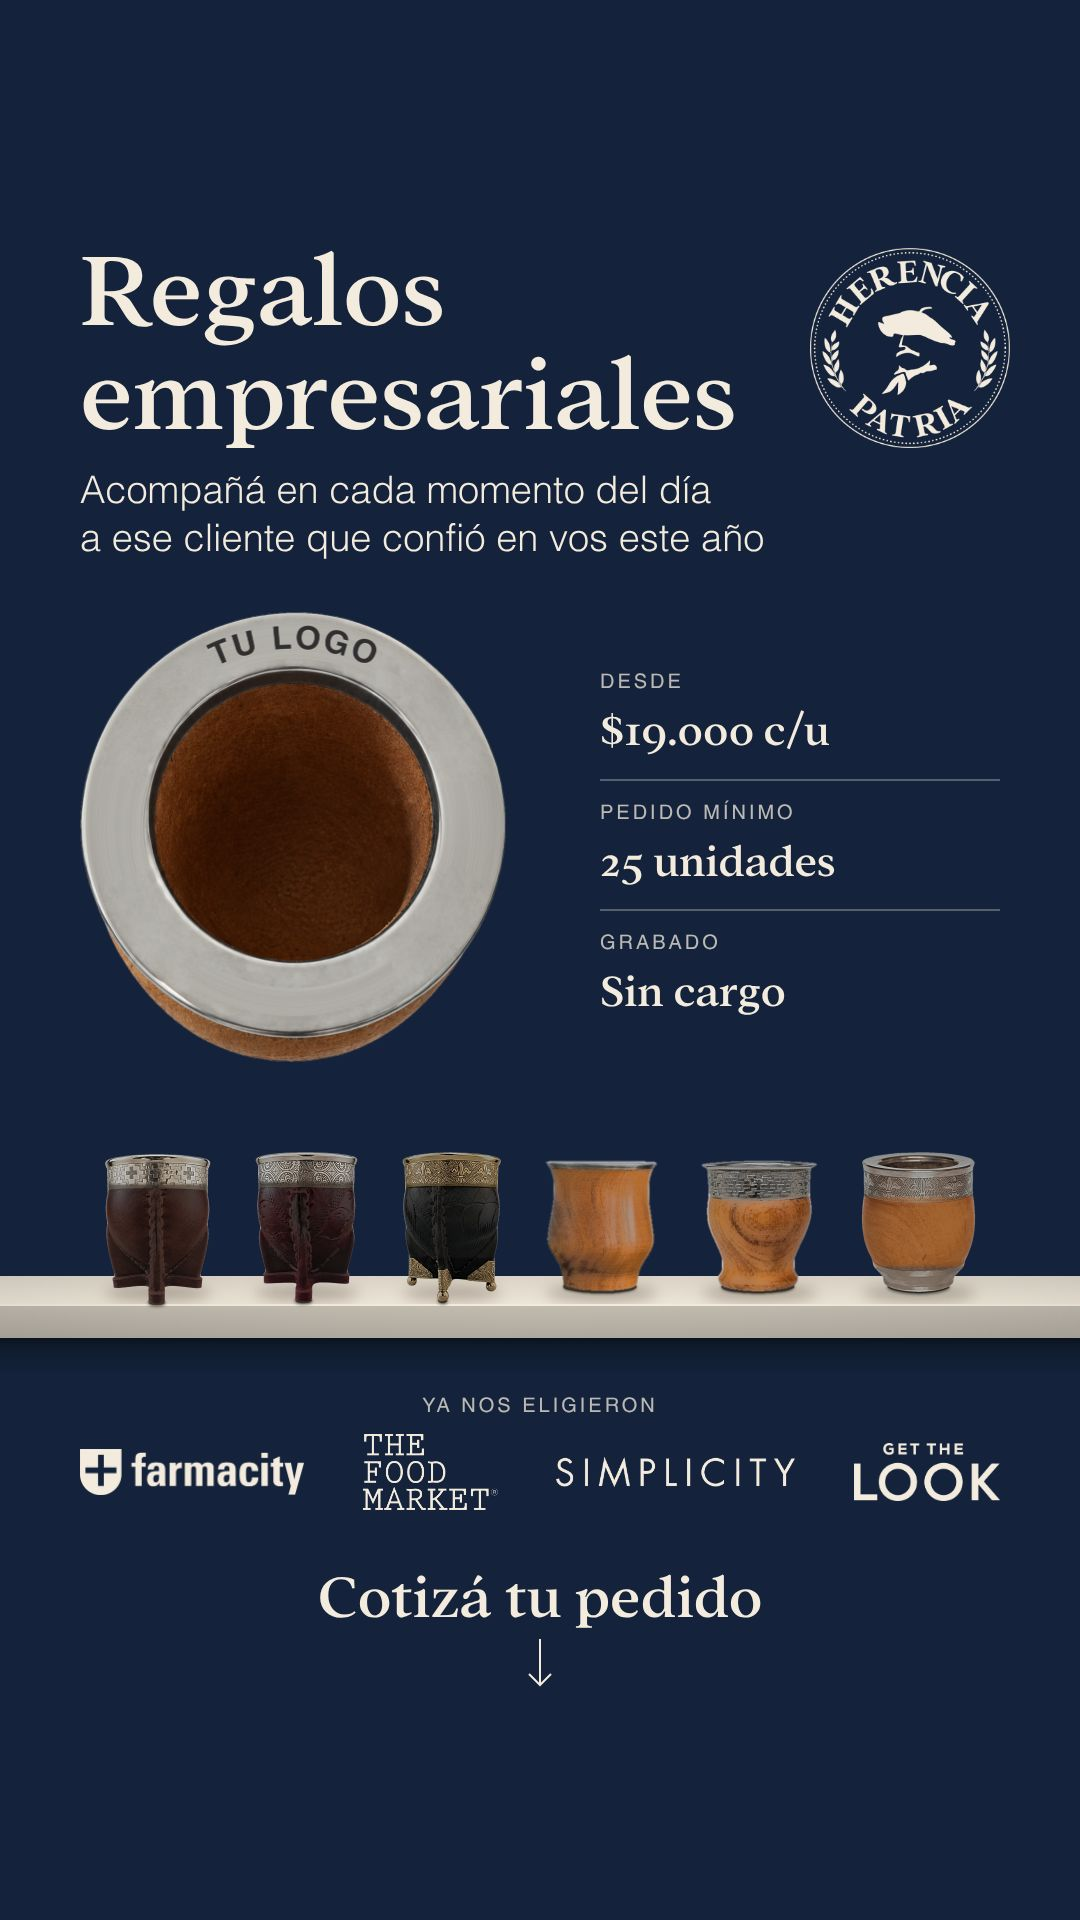
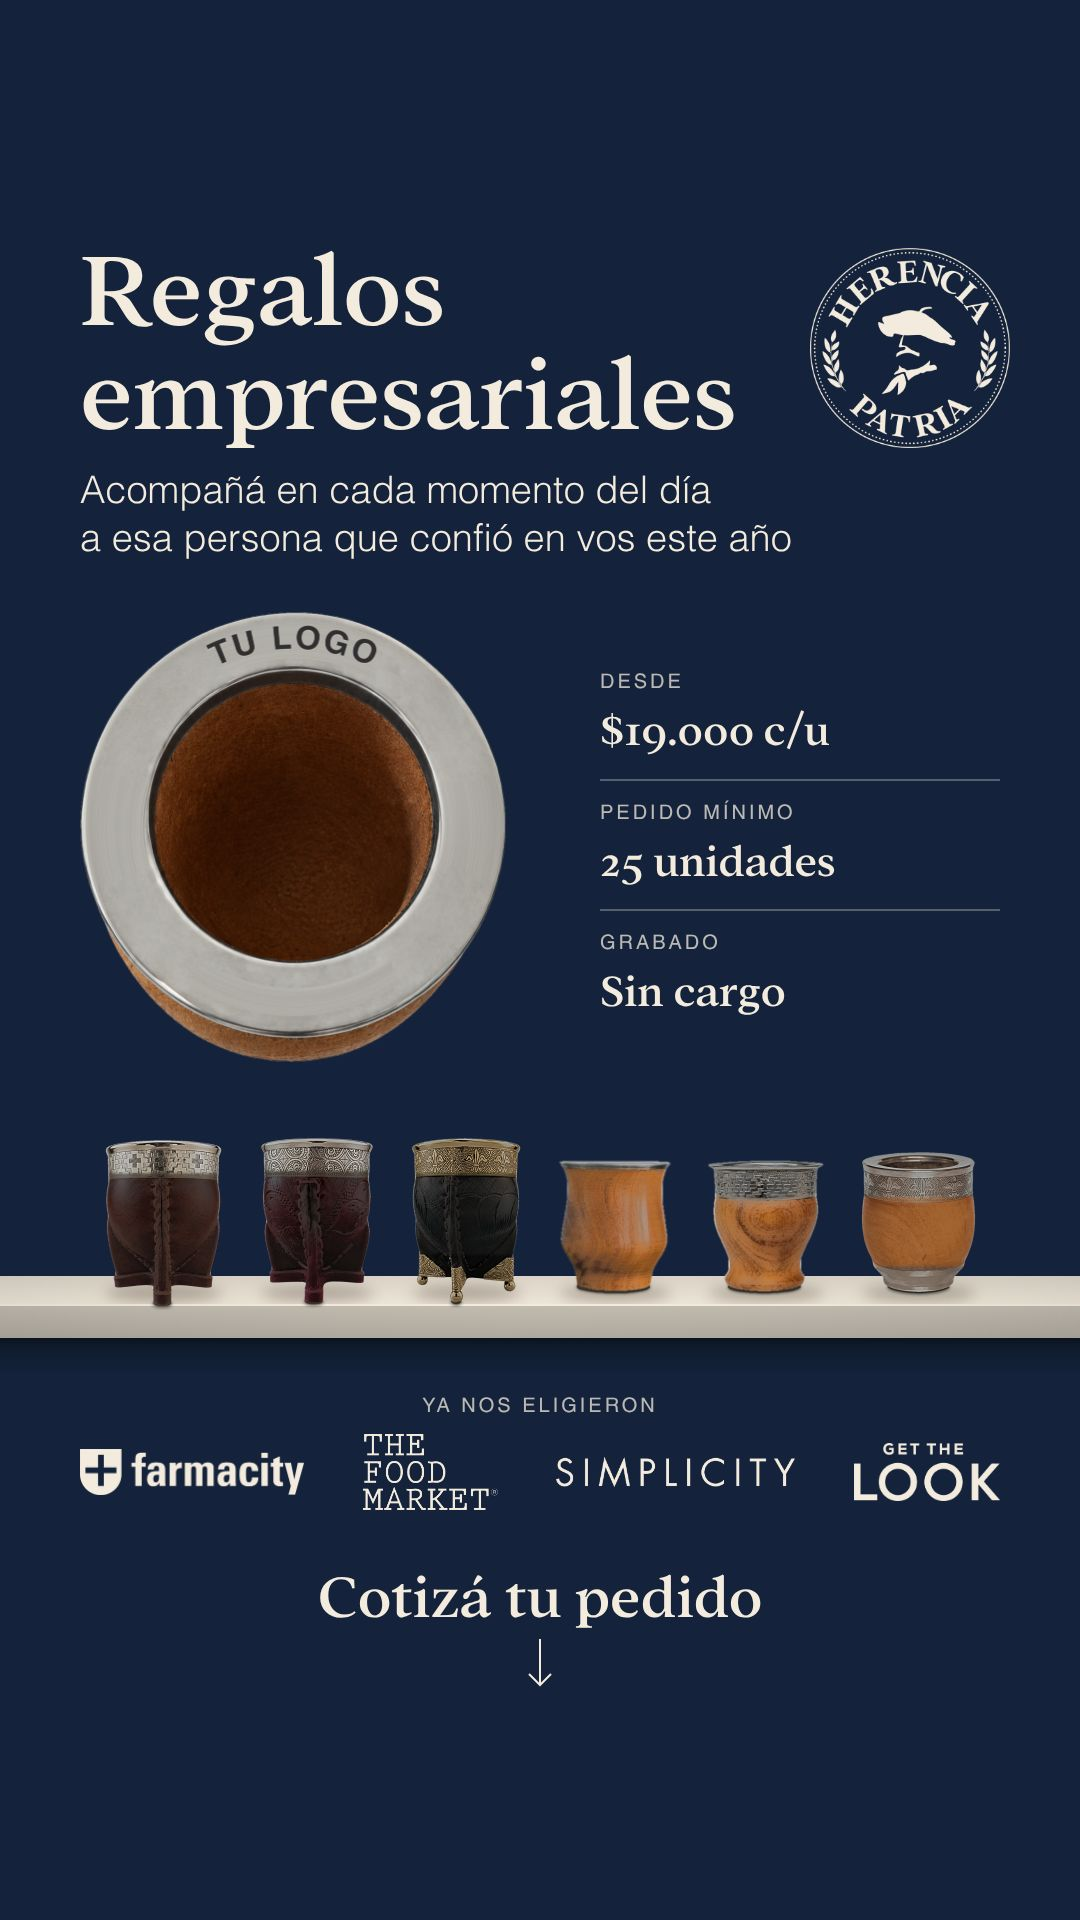
Historia empresas B: "a esa persona" en la bajada y los mates de calabaza más grandes
Claude-Session: https://claude.ai/code/session_012H3xPSmbqKoMmc2aK7okNH

Changed region(s): [[0.0917, 0.5938, 0.7639, 0.6875], [0.1833, 0.25, 0.6417, 0.3125], [0.6722, 0.25, 0.7028, 0.3125]]

diff --git a/src/Root.tsx b/src/Root.tsx
@@ -434,7 +434,7 @@ export const RemotionRoot: React.FC = () => {
           titulo: ["Regalos", "empresariales"],
           bajada: [
             "Acompañá en cada momento del día",
-            "a ese cliente que confió en vos este año",
+            "a esa persona que confió en vos este año",
           ],
           grabado: {
             foto: "grabado-logo.png",
@@ -454,9 +454,9 @@ export const RemotionRoot: React.FC = () => {
           // abajo (el último número): la foto los muestra desde arriba y la
           // pata de adelante queda más abajo que el piso real.
           //   python tools/estudio_mates.py public/estudio-mates.png 1080 300 220 100 \
-          //     public/recortes/calabaza-simple.png:150:12 \
-          //     public/recortes/calabaza-repujado.png:150:10 \
-          //     public/recortes/calabaza-base-bolita.png:150:10 \
+          //     public/recortes/calabaza-simple.png:165:13 \
+          //     public/recortes/calabaza-repujado.png:165:11 \
+          //     public/recortes/calabaza-base-bolita.png:165:11 \
           //     public/recortes/algarrobo-camionero.png:132:0 \
           //     public/recortes/algarrobo-imperial.png:132:0 \
           //     public/recortes/algarrobo-imperial-con-base.png:140:0
